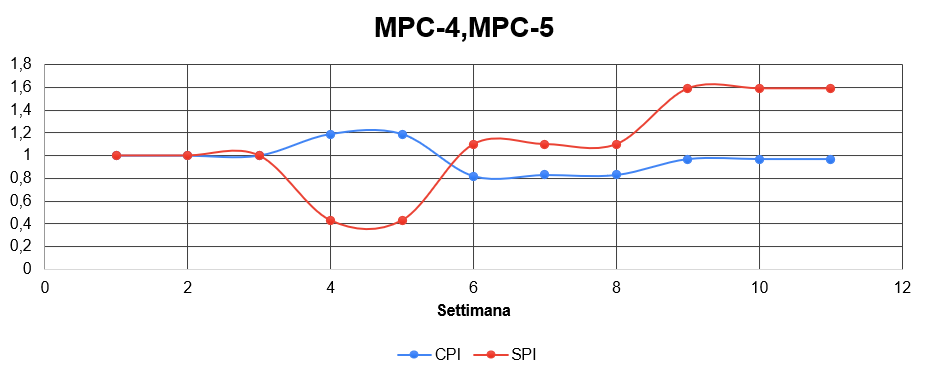
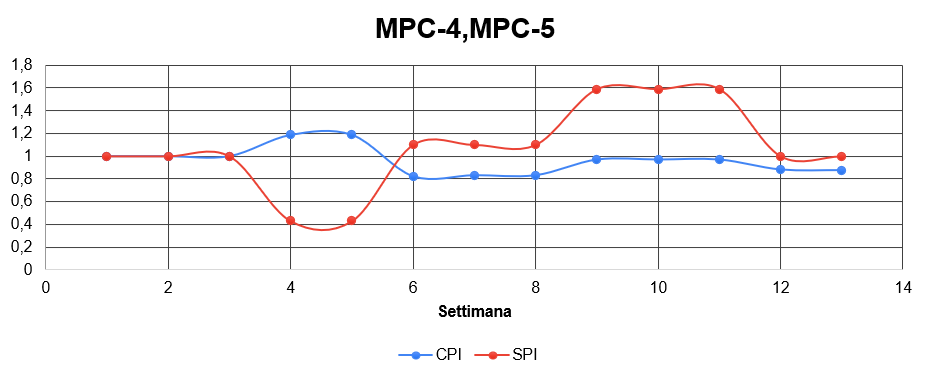
aggiunta metriche sprint 6

diff --git a/2_RTB/PianoDiQualifica.tex b/2_RTB/PianoDiQualifica.tex
@@ -1174,13 +1174,25 @@ L'obiettivo non è la semplice rendicontazione, ma l'attuazione del ciclo di mig
 
 \noindent \ul{Nota}: Si segnala che nel primo periodo, in fase di definizione del \textit{Way of Working}, il gruppo non disponeva ancora del cruscotto operativo. Tuttavia, le metriche relative sono state calcolate retroattivamente e riportate per garantire la completezza storica e l'analisi dei trend.
 
-\subsection{MPC-1, MPC-2, MPC-3: Earned Value, Planned Value, Actual Cost}
+\subsection{MPC-1, MPC-2, MPC-3: Earned Value, Planned Value, Actual Cost} \label{crsc_ev_pv_ac}
 \begin{figure}[H]
     \includegraphics[width=\textwidth]{../assets/pdq/ev_pv_ac.png}
     \caption{MPC-1, MPC-2, MPC-3: Earned Value, Planned Value, Actual Cost}
     \label{ev_pv_ac}
 \end{figure}
-Dal grafico si può apprezzare come il progetto sia partito lentamente durante le prime due settimane, dovuto ovviamente alle fasi iniziali di organizzazione del gruppo. Successivamente durante il terzo e il quarto \glossario{Sprint} si può notare una differenza importante tr PV ed EV. Questo, come riportato nelle retrospettive, è dovuto ad una stima delle attività troppo ottimistica. Il gruppo ha intrapreso dunque un approccio più conservativo che ha portato al ricongiungersi dei due valori alla settimana 10-11. \\
+Dal grafico si può apprezzare come il progetto sia partito lentamente
+durante le prime due settimane, dovuto ovviamente alle fasi iniziali di 
+organizzazione del gruppo. Successivamente durante il terzo e il quarto 
+\glossario{Sprint} si può notare una differenza importante tr PV ed EV. 
+Questo, come riportato nelle retrospettive, è dovuto ad una stima delle 
+attività troppo ottimistica. Il gruppo ha intrapreso dunque un approccio 
+più conservativo che ha portato al ricongiungersi dei due valori alla 
+settimana 10-11. La differenza tra costo preventivato e attuale è rimasta
+abbastanza contenuta. Unico scostamento avviene nelle ultime due settimane,
+dove alcune attività hanno superato i costi preventivati a causa di prolungamenti nell'implementazione
+di una funzionalità nel PoC. Questo scostamento è dovuto al fatto che i membri del
+gruppo stanno di fatto esplorando tecnologie nuove e dunque i tempi di implementazione
+possono fluttuare notevolmente.\\
 
 
 \subsection{MPC-4, MPC-5: CPI, SPI}
@@ -1189,9 +1201,8 @@ Dal grafico si può apprezzare come il progetto sia partito lentamente durante l
     \caption{MPC-4, MPC-5: CPI, SPI}
     \label{cpi_spi}
 \end{figure}
-Possiamo notare anche da CPI e SPI la pianificazione troppo ottimistica con un calo dello SPI.
-Nonostante il rallentamento, il gruppo ha completato le attività con costi inferiori al previsto.
-Successivamente invece si è riusciti a recuperare il ritardo. Lo SPI è tornato sopra 1, dovuto al fatto che si sono dovute recuperare le task in ritardo, tuttavia spendendo più del previsto. Il CPI si è stabilizzato nelle ultime settimane, dovuto al fatto che il gruppo ha familiarizzato e accumulato esperienza nello stimare task simili. \\
+
+Dall'analisi di CPI e SPI emerge chiaramente la pianificazione inizialmente troppo ottimistica, evidenziata dal calo dello SPI nelle settimane 3-5. Nonostante il rallentamento, il gruppo ha completato le attività con costi inferiori al previsto. A partire dalla settimana 6, si è osservato un recupero progressivo del ritardo: lo SPI è tornato sopra 1 (dovuto al recupero delle task arretrate), sebbene con un incremento dei costi. Il CPI si è successivamente stabilizzato nelle settimane 9-11, riflettendo una migliore consapevolezza circa la necessità di rivedere la strategia di pianificazione. Nelle ultime due settimane si sono registrati errori nella gestione dei preventivi e consuntivi di periodo, con conseguente aumento dei costi associati alle attività. Le attività nelle ultime due settimane risultano terminate per tempo. \\
 
 
 \subsection{MPC-7: EAC confrontato con BAC}
@@ -1200,7 +1211,16 @@ Successivamente invece si è riusciti a recuperare il ritardo. Lo SPI è tornato
     \caption{MPC-7: EAC confrontato con BAC}
     \label{eac_bac}
 \end{figure}
-Strettamente collegato, e conseguenza del CPI, è l'andamento di EAC e BAC. Tra le settimane 3 e 5 si osserva una diminuzione. Tale diminuzione non tiene conto della sottostima delle attività: nelle attività completate il costo reale è risultato inferiore. Successivamente l'EAC aumenta, segnalando un incremento dei costi. Questo aumento è dovuto alle numerose iterazioni, a volte molto distruttive, sul documento di Analisi dei Requisiti. Dopo gli incontri con il prof. Cardin il gruppo ha dovuto rivedere quasi completamente la struttura degli \glossario{Use Case}. \\
+Strettamente collegato, e conseguenza del CPI, è l'andamento di EAC e BAC.
+Tra le settimane 3 e 5 si osserva una diminuzione. Tale diminuzione tuttavia non
+tiene conto del rinvio delle attività. Per quelle completate, il costo reale è
+risultato inferiore. Una diminuzione della metrica EAC non significa dunque per forza
+un miglioramento. Successivamente l'EAC aumenta, segnalando un incremento rispetto ai costi preventivati.
+Questo aumento è dovuto alle numerose iterazioni, a volte molto distruttive,
+sul documento di Analisi dei Requisiti. Dopo gli incontri con il prof.
+Cardin il gruppo ha dovuto rivedere quasi completamente la struttura degli
+\glossario{Use Case}. Allo stato attuale la pianificazione è ancora oggetto
+di discussione all'interno del gruppo, in ottica di contenere il più possibile le fluttuazioni.\\
 
 
 \subsection{MPC-1, MPC-2, MPC-3, MPC-6, MPC-7: EV, PV, AC, EAC, ETC}
@@ -1209,7 +1229,9 @@ Strettamente collegato, e conseguenza del CPI, è l'andamento di EAC e BAC. Tra 
     \caption{MPC-1, MPC-2, MPC-3, MPC-6, MPC-7: EV, PV, AC, EAC, ETC}
     \label{ev_pv_ac_eac_etcs}
 \end{figure}
-Si può apprezzare dal grafico quanto detto fino ad ora. Si osserva un aumento dell EAC nella fase iniziale, con un suo successivo rientro. \\
+Si può apprezzare dal grafico un quadro generale di quanto detto fino ad ora.
+Si osserva un aumento dell EAC nella fase iniziale, con un suo successivo rientro
+e un lieve rialzo nelle ultime due settimane. \\
 
 
 \subsection{MPC-10: Indice di Gulpease}
@@ -1218,8 +1240,12 @@ Si può apprezzare dal grafico quanto detto fino ad ora. Si osserva un aumento d
     \caption{MPC-10: Indice di Gulpease}
     \label{gfi}
 \end{figure}
-Il gruppo misura l'Indice di Gulpease per garantire la leggibilità, soprattutto dei documenti rivolti ad esterni. Nelle fasi iniziali non è stata posta particolare attenzione, ma i risultati sono stati comunque buoni. Un'eccezione sono le Norme di Progetto: più descrittive e con pochi elenchi, mostrano valori inferiori. Per garantire un limite minimo, nelle settimane 7--10 (SPRINT 4) è stato introdotto un controllo automatico che accetta in repository solo documenti con Gulpease $\geq$ 60. \\
-
+Il gruppo misura l'Indice di Gulpease per garantire la leggibilità, soprattutto
+dei documenti rivolti ad esterni. Nelle fasi iniziali non è stata posta particolare
+attenzione, ma i risultati sono stati comunque buoni. Un'eccezione sono le
+Norme di Progetto: più descrittive e con pochi elenchi, mostrano valori inferiori.
+Per garantire un limite minimo, nelle settimane 7--10 (SPRINT 4) è stato introdotto
+un controllo automatico che accetta in repository solo documenti con Gulpease $\geq$ 60.
 
 \subsection{MPC-11: Correttezza ortografica}
 \begin{figure}[H]
@@ -1227,7 +1253,7 @@ Il gruppo misura l'Indice di Gulpease per garantire la leggibilità, soprattutto
     \caption{MPC-11: Correttezza ortografica}
     \label{eo}
 \end{figure}
-Gli errori ortografici sono stati gestiti in maniera analoga e parallela al Gulpease Index. Il gruppo ha deciso di non accettare documenti con errori ortografici, implementando un controllo automatico. \\
+Gli errori ortografici sono stati gestiti in maniera analoga e parallela al Gulpease Index. Il gruppo ha deciso di non accettare documenti con errori ortografici, implementando un controllo automatico. Si osserva infatti come al termine della nona settimana i documenti risultano corretti.\\
 
 
 \subsection{MPC-15: Rischi non previsti}
@@ -1236,7 +1262,8 @@ Gli errori ortografici sono stati gestiti in maniera analoga e parallela al Gulp
     \caption{MPC-15: Rischi non previsti}
     \label{rnp}
 \end{figure}
-Il gruppo ha registrato due rischi imprevisti in due Sprint diversi. Il primo, coerente con i dati mostrati, è stato causato dalla sottostima delle attività. Nel secondo Sprint si è verificato un rischio imprevedibile: un membro del gruppo è stato indisposto. \\
+Il gruppo ha registrato due rischi imprevisti in due Sprint diversi. Il primo, coerente con i dati mostrati, è stato causato dalla sottostima delle attività.
+Nel secondo Sprint si è verificato un rischio imprevedibile: un membro del gruppo è stato indisposto. Nello sprint 6 invece è stato riscontrato, coerentemente con quanto descritto in §\ref{crsc_ev_pv_ac}, uno sforamento dei costi inatteso. \\
 
 
 \subsection{MPC-9: Requirements Stability Index}
@@ -1245,7 +1272,7 @@ Il gruppo ha registrato due rischi imprevisti in due Sprint diversi. Il primo, c
     \caption{MPC-9: Requirements Stability Index}
     \label{rsi}
 \end{figure}
-Dal grafico si osserva che, all'inizio, la stabilità dei requisiti è rimasta costante mentre il gruppo definiva le Norme di Progetto e i requisiti non erano ancora esplorati. Successivamente si è verificato un calo significativo: l'attenzione si è spostata sullo studio del dominio applicativo e sulle aspettative della \glossario{proponente}. La scarsa conoscenza del dominio e la continua selezione e revisione dei requisiti, anche per motivi di fattibilità, hanno generato instabilità. La proponente non ha imposto vincoli rigidi sulle funzionalità; di conseguenza i requisiti sono stati proposti e discussi in modo progressivo. Questo ha fatto sì che non si sia reso spesso necessario modificare, aggiungere o eliminare requisiti, e l'indice si è stabilizzato nella fase finale. \\
+Dal grafico si osserva che, all'inizio, la stabilità dei requisiti è rimasta costante mentre il gruppo definiva le Norme di Progetto e i requisiti non erano ancora esplorati. Successivamente si è verificato un calo significativo: l'attenzione si è spostata sullo studio del dominio applicativo e sulle aspettative della \glossario{proponente}. La scarsa conoscenza del dominio e la continua selezione e revisione dei requisiti, anche per motivi di fattibilità, hanno generato instabilità. La proponente non ha imposto vincoli rigidi sulle funzionalità; di conseguenza i requisiti sono stati proposti e discussi in modo progressivo. Questo ha fatto sì che non si sia reso spesso necessario modificare, aggiungere o eliminare requisiti, e l'indice si è stabilizzato nella fase finale. Nella dodicesima settimana sono stati aggiunti dei requisiti per raggiungere il massimo livello di dettaglio, portando ad un lieve calo della metrica. \\
 
 
 \subsection{MPC-16: Metriche soddisfatte}
